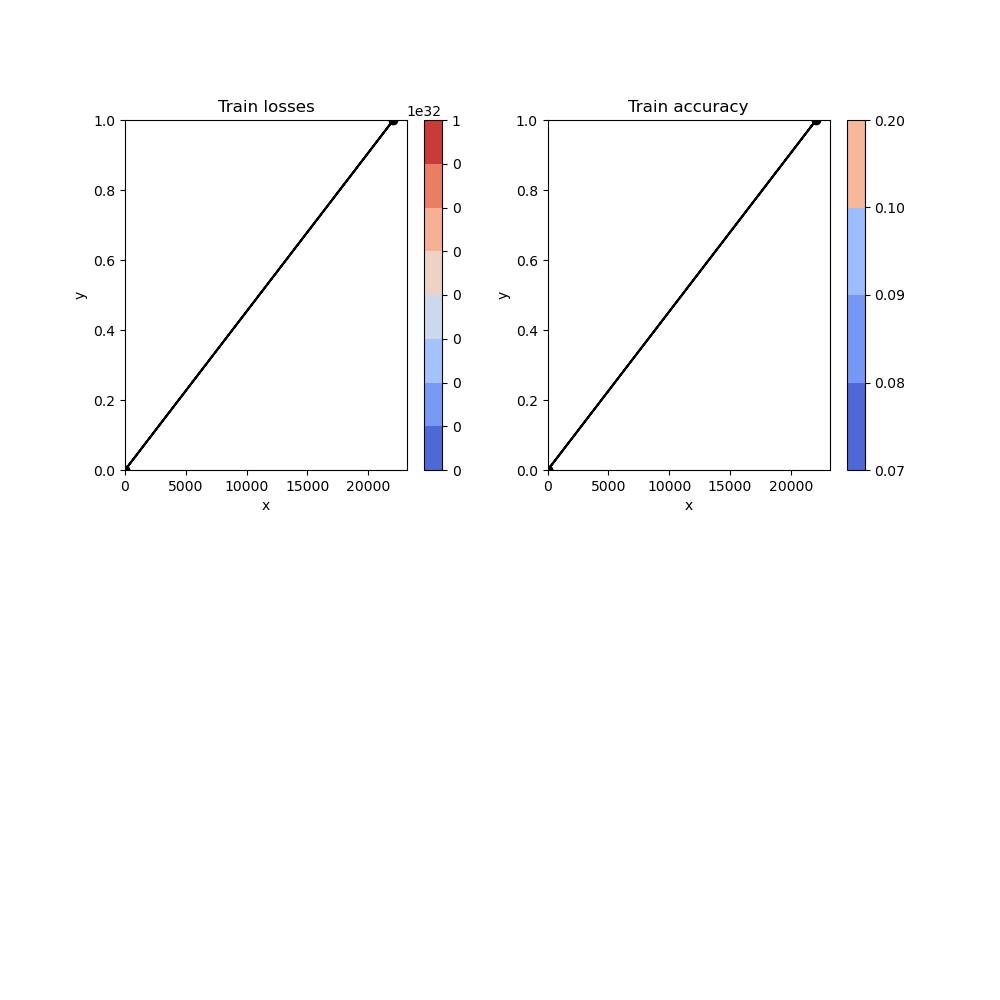
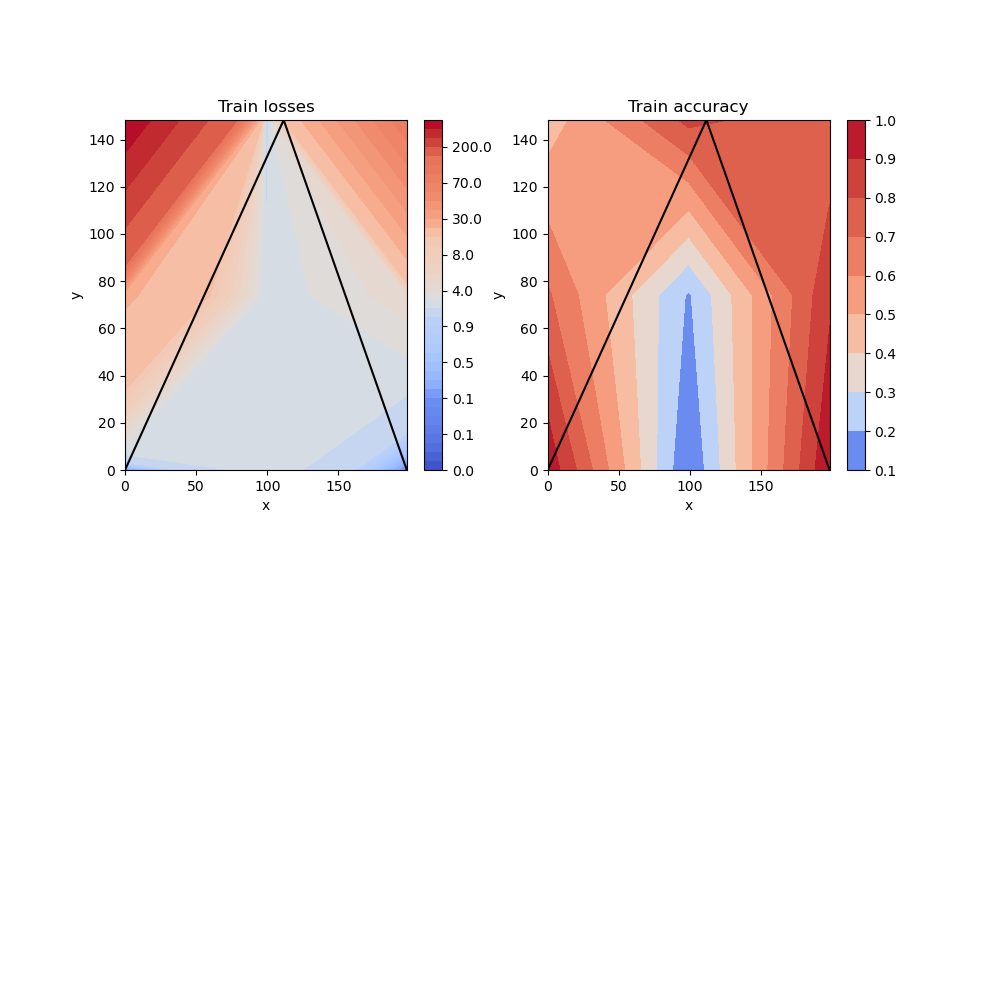
Plane_plot V1.0

Changed region(s): [[0.496, 0.124, 0.899, 0.496], [0.093, 0.093, 0.496, 0.496], [0.868, 0.093, 0.899, 0.124]]

diff --git a/plane_plot.py b/plane_plot.py
@@ -60,16 +60,25 @@ def main(cfg: DictConfig):
     start_tens, sizes = to_tensor(start)
     end_tens, _ = to_tensor(end)
     middle_tens, _ = to_tensor(middle)
+    # print(torch.linalg.norm(start_tens - end_tens))
+    # print(torch.linalg.norm(start_tens - middle_tens))
+    # print(torch.linalg.norm(middle_tens - end_tens))
+    # exit()
     # first basis vector
     e_x = end_tens - start_tens
-    dx = torch.linalg.norm(e_x)
+    norm_x = torch.linalg.norm(e_x)
     # second basis vector
     e_y_skewed = middle_tens - start_tens
-    e_y = e_y_skewed - torch.inner(e_x, e_y_skewed) / dx * e_x
-    dy = torch.linalg.norm(e_y)
-    # print(torch.linalg.norm(e_x), torch.abs(e_x).mean())
-    x_middle = torch.inner(e_x, e_y_skewed) / dx
-    y_middle = 1 / dy
+    e_y = e_y_skewed - torch.inner(e_x / norm_x ** 2, e_y_skewed) * e_x
+    norm_y = torch.linalg.norm(e_y)
+    # print(torch.linalg.norm(e_x))
+    # print(torch.linalg.norm(e_y_skewed))
+    # print(torch.linalg.norm(e_y))
+    # print(torch.inner(e_x, e_y))
+    x_middle = torch.inner(e_x, e_y_skewed) / norm_x ** 2
+    y_middle = 1
+    # print(x_middle, y_middle, torch.linalg.norm(e_y_skewed - x_middle * e_x - y_middle * e_y))
+    # print(np.linalg.norm(middle_tens - (start_tens + x_middle*e_x + y_middle*e_y)))
 
     margin = cfg.margin
     n_pts = cfg.n_pts
@@ -81,23 +90,22 @@ def main(cfg: DictConfig):
 
     for i, x in tqdm(enumerate(xs), desc='x', disable=True):
         for j, y in tqdm(enumerate(ys), desc='y', leave=True):
-            # x, y = float(x), float(y)
-            params_tensor = x * dx * e_x + y * dy * e_y
+            params_tensor = start_tens + x * e_x + y * e_y
             state_dict = remove_pref_from_dict(to_state_dict(params_tensor, sizes))
             single_model.net.load_state_dict(state_dict)
             results = trainer.validate(single_model, val_dataloaders=datamodule.train_dataloader(), verbose=False)[0]
             losses[i, j] = results['val loss']
             accs[i, j] = results['Accuracy']
-            # print(accs[i, j], losses[i, j])
-        # exit()
+            # print(x, y, accs[i, j], losses[i, j])
 
     plt.figure(figsize=(10, 10))
     for ind, data, title in zip([1, 2], [losses, accs], ['Train losses', 'Train accuracy']):
         plt.subplot(2, 2, ind)
-        plt.scatter([0, x_middle * dx, 1], [0, y_middle * dy, 0], c='black')
-        plt.plot([0, x_middle * dx, 1], [0, y_middle * dy, 0], c='black')
+        plt.scatter([0, x_middle * norm_x, norm_x], [0, y_middle * norm_y, 0], c='black')
+        plt.plot([0, x_middle * norm_x, norm_x], [0, y_middle * norm_y, 0], c='black')
         plt.title(title)
-        plt.contourf(x_grid, y_grid, data, locator=ticker.LogLocator(subs='all'), cmap='coolwarm')
+        plt.contourf(x_grid * float(norm_x), y_grid * float(norm_y), data, locator=ticker.LogLocator(subs='all'),
+                     cmap='coolwarm')
         plt.xlabel('x')
         plt.ylabel('y')
         plt.colorbar()
